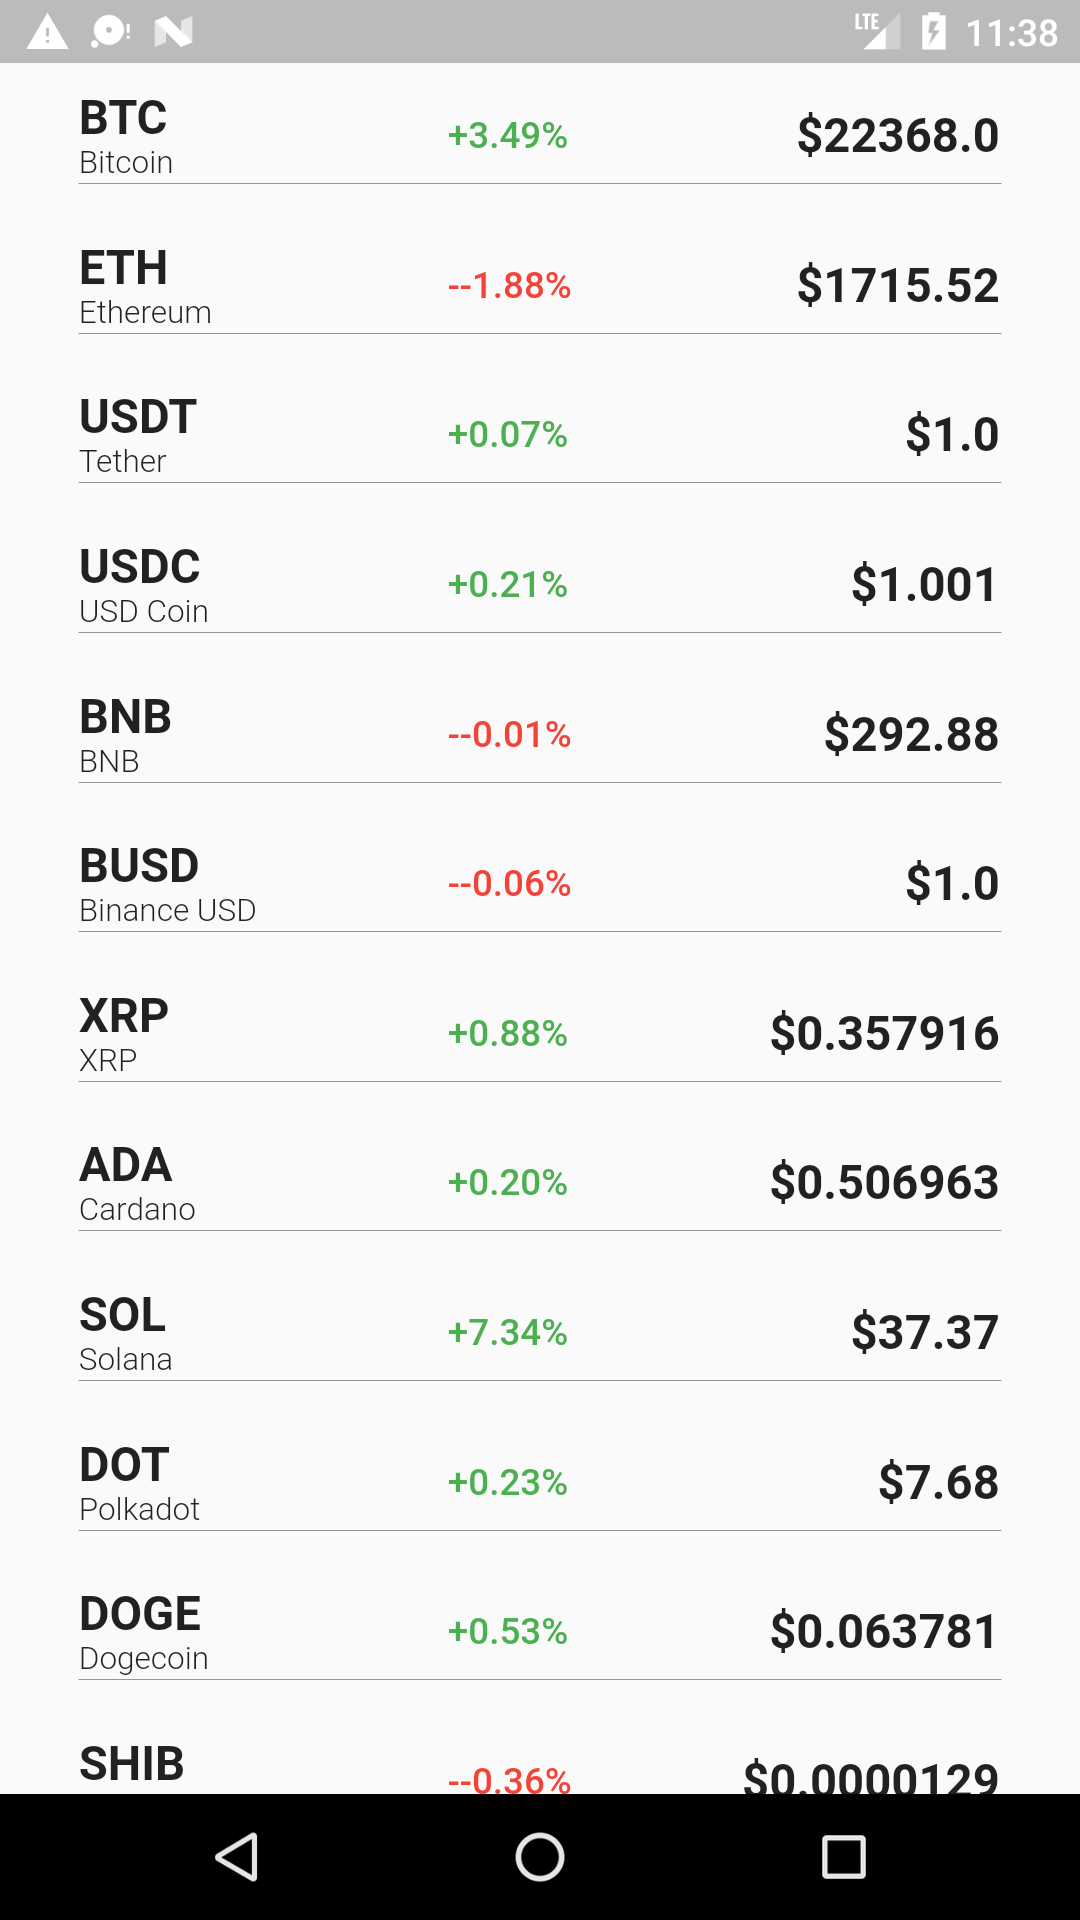
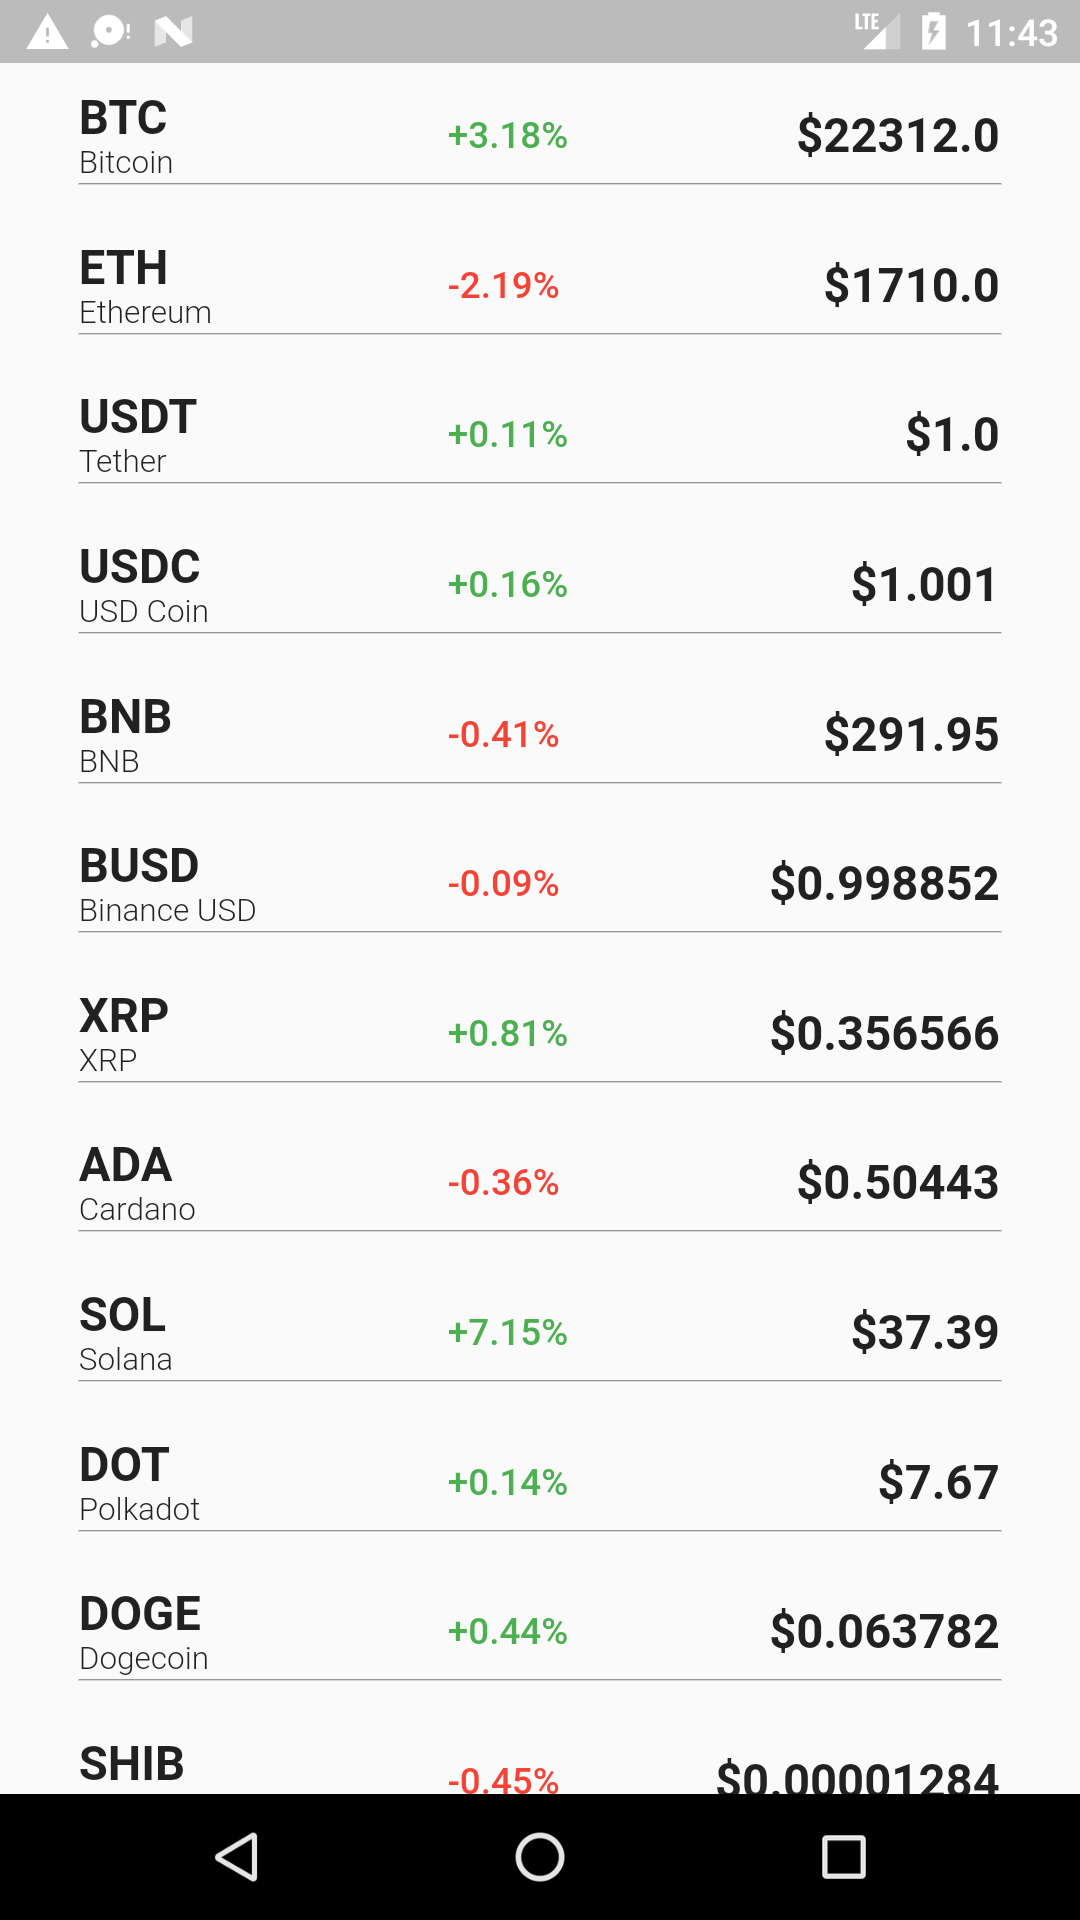
read me

diff --git a/lib/app/modules/coins/screens/coins_list_page.dart b/lib/app/modules/coins/screens/coins_list_page.dart
@@ -1,4 +1,3 @@
-
 import 'package:coin_tracker/app/modules/coins/notifiers/coins_state_notifiers.dart';
 import 'package:flutter/material.dart';
 import 'package:flutter_riverpod/flutter_riverpod.dart';
@@ -66,7 +65,7 @@ class CoinsHomepage extends StatelessWidget {
                                   child: Text(
                                     coins[index].priceChangePercent > 0
                                         ? '+${coins[index].priceChangePercent.toStringAsFixed(2)}%'
-                                        : '-${coins[index].priceChangePercent.toStringAsFixed(2)}%',
+                                        : '${coins[index].priceChangePercent.toStringAsFixed(2)}%',
                                     style: TextStyle(
                                       fontWeight: FontWeight.w500,
                                       fontSize: 14,
